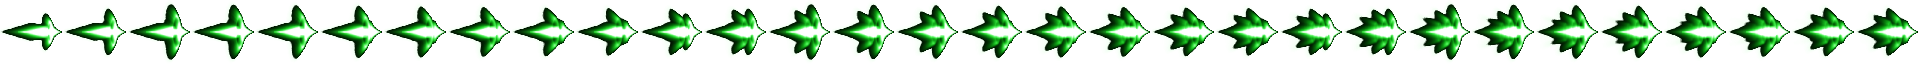
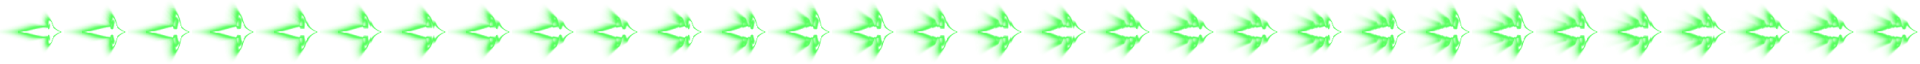
Fixed the blackness in the jetflame.

Changed region(s): [[0.0, 0.0938, 1.0, 0.9062]]

diff --git a/src/game.py b/src/game.py
@@ -53,24 +53,20 @@ class Game():
 					self.asteroid_list.append(self.asteroid_image.subsurface(j*self.asw, i*self.asw, self.asw, self.asw))
 		
 		#-----------------------------------------------------------------------
-		#                    SETTING UP FUEL-SHEET
+		#                    SETTING UP FUEL, HEALTH and AMMO -SHEETS
 		#-----------------------------------------------------------------------
-		self.fuel_image = pygame.image.load("images/fuelsheet.png").convert_alpha()
-		self.fuel_list = []
-		self.fsw = 1340//10 # Divide by eight because there are eight images per row on the sheet. FSW = fuel sheet witdh.
-		for i in range(10):
-			for n in range(3):
-				self.fuel_list.append(self.fuel_image.subsurface(i*self.fsw, 0, self.fsw, 128))
+		def sheetcutter(filename):
+			cut_image = pygame.image.load(filename).convert_alpha()
+			listing = []
+			w = 1340//10 # Divide by eight because there are eight images per row on the sheet. FSW = fuel sheet witdh.
+			for i in range(10):
+				for n in range(3):
+					listing.append(cut_image.subsurface(i*w, 0, w, 128))
+			return listing
 
-		#-----------------------------------------------------------------------
-		#                    SETTING UP HEALTH-SHEET
-		#-----------------------------------------------------------------------
-		self.health_image = pygame.image.load("images/healthsheet.png").convert_alpha()
-		self.health_list = []
-		self.hsw = 1340//10 # Divide by eight because there are eight images per row on the sheet. HSW = health sheet witdh.
-		for i in range(10):
-			for n in range(3):
-				self.health_list.append(self.health_image.subsurface(i*self.hsw, 0, self.hsw, 128))
+		self.fuel_list = sheetcutter("images/fuelsheet.png")
+		self.health_list = sheetcutter("images/healthsheet.png")
+		self.ammo_list = sheetcutter("images/ammosheet.png")
 
 		self.dust_sheet = pygame.image.load("images/dust_sheet.png").convert_alpha()
 		self.dust_list = img_list(self.dust_sheet, 8, 3)
@@ -91,6 +87,7 @@ class Game():
 		self.fuel_group = pygame.sprite.Group()
 		self.asteroid_group = pygame.sprite.Group()
 		self.health_group = pygame.sprite.Group()
+		self.ammo_group = pygame.sprite.Group()
 
 		self.player1 = Player(P1STARTPOS, P1STARTANGLE)
 		self.player2 = Player(P2STARTPOS, P2STARTANGLE)
@@ -104,8 +101,8 @@ class Game():
 
 		for i in range(FUELNUM):
 			self.fuel = Animation(self.fuel_list, (random.randint((0+SCREENWIDTH//4),(SCREENWIDTH-SCREENWIDTH//4))), 
-													  (random.randint((0+SCREENHEIGHT//4),(SCREENHEIGHT-SCREENHEIGHT//4))),
-													   44, 42)
+												  (random.randint((0+SCREENHEIGHT//4),(SCREENHEIGHT-SCREENHEIGHT//4))),
+												   44, 42)
 			self.all_sprites_list.add(self.fuel)
 			self.fuel_group.add(self.fuel)
 
@@ -115,6 +112,13 @@ class Game():
 													   44, 42)
 			self.all_sprites_list.add(self.health)
 			self.health_group.add(self.health)
+
+		for i in range(AMMONUM):
+			self.ammo = Animation(self.ammo_list, (random.randint((0+SCREENWIDTH//4),(SCREENWIDTH-SCREENWIDTH//4))), 
+												  (random.randint((0+SCREENHEIGHT//4),(SCREENHEIGHT-SCREENHEIGHT//4))),
+												   44, 42)
+			self.all_sprites_list.add(self.ammo)
+			self.health_group.add(self.ammo)
 
 		self.blackhole = Animation(self.hole_list, SCREENWIDTH//2, SCREENHEIGHT//2, 100, 100)
 		self.all_sprites_list.add(self.blackhole)

diff --git a/src/variables.py b/src/variables.py
@@ -27,6 +27,7 @@ ASTEROIDSMAXSPEED = 4
 ASTEROIDSMINSPEED = 2
 FUELNUM = 1
 HEALTHNUM = 1
+AMMONUM = 1
 
 # Some colors
 BLACK      = (   0,   0,   0)
